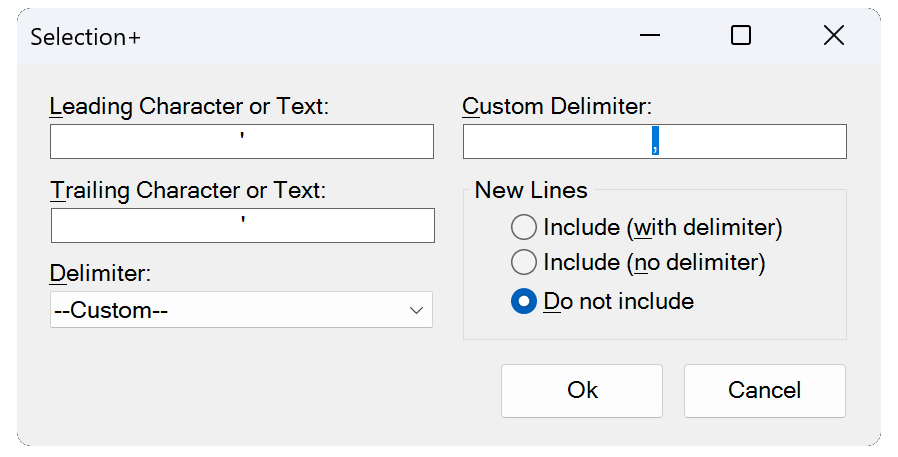
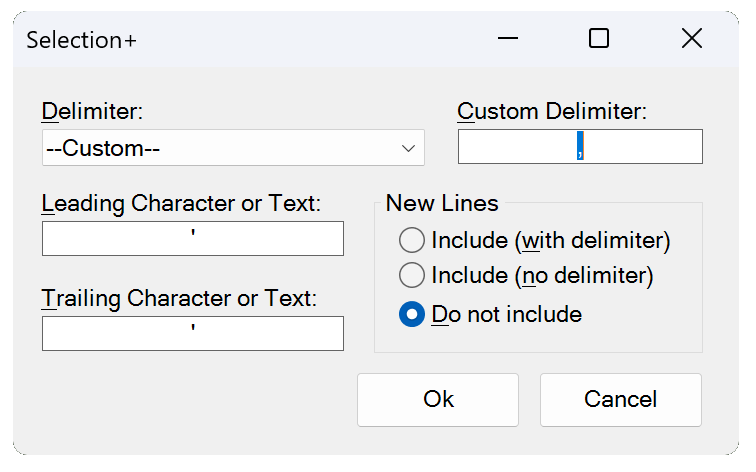
Selection+ form re-design

diff --git a/XLQuickTools/Form_SelectionPlus.Designer.cs b/XLQuickTools/Form_SelectionPlus.Designer.cs
@@ -49,17 +49,17 @@
             // 
             this.TbLeading.BorderStyle = System.Windows.Forms.BorderStyle.FixedSingle;
             this.TbLeading.Font = new System.Drawing.Font("Microsoft Sans Serif", 9F, System.Drawing.FontStyle.Regular, System.Drawing.GraphicsUnit.Point, ((byte)(0)));
-            this.TbLeading.Location = new System.Drawing.Point(33, 60);
+            this.TbLeading.Location = new System.Drawing.Point(29, 154);
             this.TbLeading.Margin = new System.Windows.Forms.Padding(4);
             this.TbLeading.Name = "TbLeading";
-            this.TbLeading.Size = new System.Drawing.Size(384, 35);
-            this.TbLeading.TabIndex = 1;
+            this.TbLeading.Size = new System.Drawing.Size(302, 35);
+            this.TbLeading.TabIndex = 5;
             this.TbLeading.TextAlign = System.Windows.Forms.HorizontalAlignment.Center;
             // 
             // CSVForm_Ok
             // 
             this.CSVForm_Ok.Font = new System.Drawing.Font("Microsoft Sans Serif", 9F, System.Drawing.FontStyle.Regular, System.Drawing.GraphicsUnit.Point, ((byte)(0)));
-            this.CSVForm_Ok.Location = new System.Drawing.Point(483, 299);
+            this.CSVForm_Ok.Location = new System.Drawing.Point(343, 305);
             this.CSVForm_Ok.Margin = new System.Windows.Forms.Padding(4);
             this.CSVForm_Ok.Name = "CSVForm_Ok";
             this.CSVForm_Ok.Size = new System.Drawing.Size(164, 56);
@@ -72,17 +72,17 @@
             // 
             this.label1.AutoSize = true;
             this.label1.Font = new System.Drawing.Font("Microsoft Sans Serif", 9F, System.Drawing.FontStyle.Regular, System.Drawing.GraphicsUnit.Point, ((byte)(0)));
-            this.label1.Location = new System.Drawing.Point(28, 27);
+            this.label1.Location = new System.Drawing.Point(24, 121);
             this.label1.Margin = new System.Windows.Forms.Padding(4, 0, 4, 0);
             this.label1.Name = "label1";
             this.label1.Size = new System.Drawing.Size(297, 29);
-            this.label1.TabIndex = 0;
+            this.label1.TabIndex = 4;
             this.label1.Text = "&Leading Character or Text:";
             // 
             // CSVForm_Cancel
             // 
             this.CSVForm_Cancel.Font = new System.Drawing.Font("Microsoft Sans Serif", 9F, System.Drawing.FontStyle.Regular, System.Drawing.GraphicsUnit.Point, ((byte)(0)));
-            this.CSVForm_Cancel.Location = new System.Drawing.Point(666, 299);
+            this.CSVForm_Cancel.Location = new System.Drawing.Point(526, 305);
             this.CSVForm_Cancel.Margin = new System.Windows.Forms.Padding(4);
             this.CSVForm_Cancel.Name = "CSVForm_Cancel";
             this.CSVForm_Cancel.Size = new System.Drawing.Size(164, 56);
@@ -95,29 +95,29 @@
             // 
             this.label2.AutoSize = true;
             this.label2.Font = new System.Drawing.Font("Microsoft Sans Serif", 9F, System.Drawing.FontStyle.Regular, System.Drawing.GraphicsUnit.Point, ((byte)(0)));
-            this.label2.Location = new System.Drawing.Point(29, 111);
+            this.label2.Location = new System.Drawing.Point(24, 216);
             this.label2.Margin = new System.Windows.Forms.Padding(4, 0, 4, 0);
             this.label2.Name = "label2";
             this.label2.Size = new System.Drawing.Size(292, 29);
-            this.label2.TabIndex = 2;
+            this.label2.TabIndex = 6;
             this.label2.Text = "&Trailing Character or Text:";
             // 
             // TbTrailing
             // 
             this.TbTrailing.BorderStyle = System.Windows.Forms.BorderStyle.FixedSingle;
             this.TbTrailing.Font = new System.Drawing.Font("Microsoft Sans Serif", 9F, System.Drawing.FontStyle.Regular, System.Drawing.GraphicsUnit.Point, ((byte)(0)));
-            this.TbTrailing.Location = new System.Drawing.Point(34, 144);
+            this.TbTrailing.Location = new System.Drawing.Point(29, 249);
             this.TbTrailing.Margin = new System.Windows.Forms.Padding(4);
             this.TbTrailing.Name = "TbTrailing";
-            this.TbTrailing.Size = new System.Drawing.Size(384, 35);
-            this.TbTrailing.TabIndex = 3;
+            this.TbTrailing.Size = new System.Drawing.Size(302, 35);
+            this.TbTrailing.TabIndex = 7;
             this.TbTrailing.TextAlign = System.Windows.Forms.HorizontalAlignment.Center;
             // 
             // RbNewLine1
             // 
             this.RbNewLine1.AutoSize = true;
             this.RbNewLine1.Font = new System.Drawing.Font("Microsoft Sans Serif", 9F, System.Drawing.FontStyle.Regular, System.Drawing.GraphicsUnit.Point, ((byte)(0)));
-            this.RbNewLine1.Location = new System.Drawing.Point(48, 35);
+            this.RbNewLine1.Location = new System.Drawing.Point(25, 35);
             this.RbNewLine1.Margin = new System.Windows.Forms.Padding(4);
             this.RbNewLine1.Name = "RbNewLine1";
             this.RbNewLine1.Size = new System.Drawing.Size(287, 33);
@@ -130,7 +130,7 @@
             // 
             this.RbNewLine2.AutoSize = true;
             this.RbNewLine2.Font = new System.Drawing.Font("Microsoft Sans Serif", 9F, System.Drawing.FontStyle.Regular, System.Drawing.GraphicsUnit.Point, ((byte)(0)));
-            this.RbNewLine2.Location = new System.Drawing.Point(48, 70);
+            this.RbNewLine2.Location = new System.Drawing.Point(25, 70);
             this.RbNewLine2.Margin = new System.Windows.Forms.Padding(4);
             this.RbNewLine2.Name = "RbNewLine2";
             this.RbNewLine2.Size = new System.Drawing.Size(271, 33);
@@ -143,7 +143,7 @@
             // 
             this.RbNewLine3.AutoSize = true;
             this.RbNewLine3.Font = new System.Drawing.Font("Microsoft Sans Serif", 9F, System.Drawing.FontStyle.Regular, System.Drawing.GraphicsUnit.Point, ((byte)(0)));
-            this.RbNewLine3.Location = new System.Drawing.Point(48, 109);
+            this.RbNewLine3.Location = new System.Drawing.Point(25, 109);
             this.RbNewLine3.Margin = new System.Windows.Forms.Padding(4);
             this.RbNewLine3.Name = "RbNewLine3";
             this.RbNewLine3.Size = new System.Drawing.Size(198, 33);
@@ -158,9 +158,9 @@
             this.groupBox1.Controls.Add(this.RbNewLine2);
             this.groupBox1.Controls.Add(this.RbNewLine3);
             this.groupBox1.Font = new System.Drawing.Font("Microsoft Sans Serif", 9F, System.Drawing.FontStyle.Regular, System.Drawing.GraphicsUnit.Point, ((byte)(0)));
-            this.groupBox1.Location = new System.Drawing.Point(446, 111);
+            this.groupBox1.Location = new System.Drawing.Point(361, 121);
             this.groupBox1.Name = "groupBox1";
-            this.groupBox1.Size = new System.Drawing.Size(384, 166);
+            this.groupBox1.Size = new System.Drawing.Size(329, 166);
             this.groupBox1.TabIndex = 8;
             this.groupBox1.TabStop = false;
             this.groupBox1.Text = "New Lines";
@@ -170,51 +170,51 @@
             this.CbDelimiter.DropDownStyle = System.Windows.Forms.ComboBoxStyle.DropDownList;
             this.CbDelimiter.Font = new System.Drawing.Font("Microsoft Sans Serif", 9F, System.Drawing.FontStyle.Regular, System.Drawing.GraphicsUnit.Point, ((byte)(0)));
             this.CbDelimiter.FormattingEnabled = true;
-            this.CbDelimiter.Location = new System.Drawing.Point(33, 227);
+            this.CbDelimiter.Location = new System.Drawing.Point(29, 62);
             this.CbDelimiter.Margin = new System.Windows.Forms.Padding(4);
             this.CbDelimiter.Name = "CbDelimiter";
             this.CbDelimiter.Size = new System.Drawing.Size(383, 37);
-            this.CbDelimiter.TabIndex = 5;
+            this.CbDelimiter.TabIndex = 1;
             this.CbDelimiter.SelectedIndexChanged += new System.EventHandler(this.CbDelimiter_SelectedIndexChanged);
             // 
             // TbCustom
             // 
             this.TbCustom.BorderStyle = System.Windows.Forms.BorderStyle.FixedSingle;
             this.TbCustom.Font = new System.Drawing.Font("Microsoft Sans Serif", 9F, System.Drawing.FontStyle.Regular, System.Drawing.GraphicsUnit.Point, ((byte)(0)));
-            this.TbCustom.Location = new System.Drawing.Point(446, 60);
+            this.TbCustom.Location = new System.Drawing.Point(445, 62);
             this.TbCustom.Margin = new System.Windows.Forms.Padding(4);
             this.TbCustom.Name = "TbCustom";
-            this.TbCustom.Size = new System.Drawing.Size(384, 35);
-            this.TbCustom.TabIndex = 7;
+            this.TbCustom.Size = new System.Drawing.Size(245, 35);
+            this.TbCustom.TabIndex = 3;
             this.TbCustom.TextAlign = System.Windows.Forms.HorizontalAlignment.Center;
             // 
             // label3
             // 
             this.label3.AutoSize = true;
             this.label3.Font = new System.Drawing.Font("Microsoft Sans Serif", 9F, System.Drawing.FontStyle.Regular, System.Drawing.GraphicsUnit.Point, ((byte)(0)));
-            this.label3.Location = new System.Drawing.Point(28, 194);
+            this.label3.Location = new System.Drawing.Point(24, 29);
             this.label3.Margin = new System.Windows.Forms.Padding(4, 0, 4, 0);
             this.label3.Name = "label3";
             this.label3.Size = new System.Drawing.Size(116, 29);
-            this.label3.TabIndex = 4;
+            this.label3.TabIndex = 0;
             this.label3.Text = "&Delimiter:";
             // 
             // label4
             // 
             this.label4.AutoSize = true;
             this.label4.Font = new System.Drawing.Font("Microsoft Sans Serif", 9F, System.Drawing.FontStyle.Regular, System.Drawing.GraphicsUnit.Point, ((byte)(0)));
-            this.label4.Location = new System.Drawing.Point(441, 27);
+            this.label4.Location = new System.Drawing.Point(440, 29);
             this.label4.Margin = new System.Windows.Forms.Padding(4, 0, 4, 0);
             this.label4.Name = "label4";
             this.label4.Size = new System.Drawing.Size(204, 29);
-            this.label4.TabIndex = 6;
+            this.label4.TabIndex = 2;
             this.label4.Text = "&Custom Delimiter:";
             // 
             // CSVForm
             // 
             this.AutoScaleDimensions = new System.Drawing.SizeF(12F, 25F);
             this.AutoScaleMode = System.Windows.Forms.AutoScaleMode.Font;
-            this.ClientSize = new System.Drawing.Size(864, 382);
+            this.ClientSize = new System.Drawing.Size(726, 388);
             this.Controls.Add(this.CbDelimiter);
             this.Controls.Add(this.TbCustom);
             this.Controls.Add(this.groupBox1);
@@ -222,10 +222,10 @@
             this.Controls.Add(this.CSVForm_Cancel);
             this.Controls.Add(this.CSVForm_Ok);
             this.Controls.Add(this.TbLeading);
+            this.Controls.Add(this.label4);
+            this.Controls.Add(this.label3);
             this.Controls.Add(this.label1);
             this.Controls.Add(this.label2);
-            this.Controls.Add(this.label3);
-            this.Controls.Add(this.label4);
             this.KeyPreview = true;
             this.Margin = new System.Windows.Forms.Padding(4);
             this.Name = "CSVForm";
